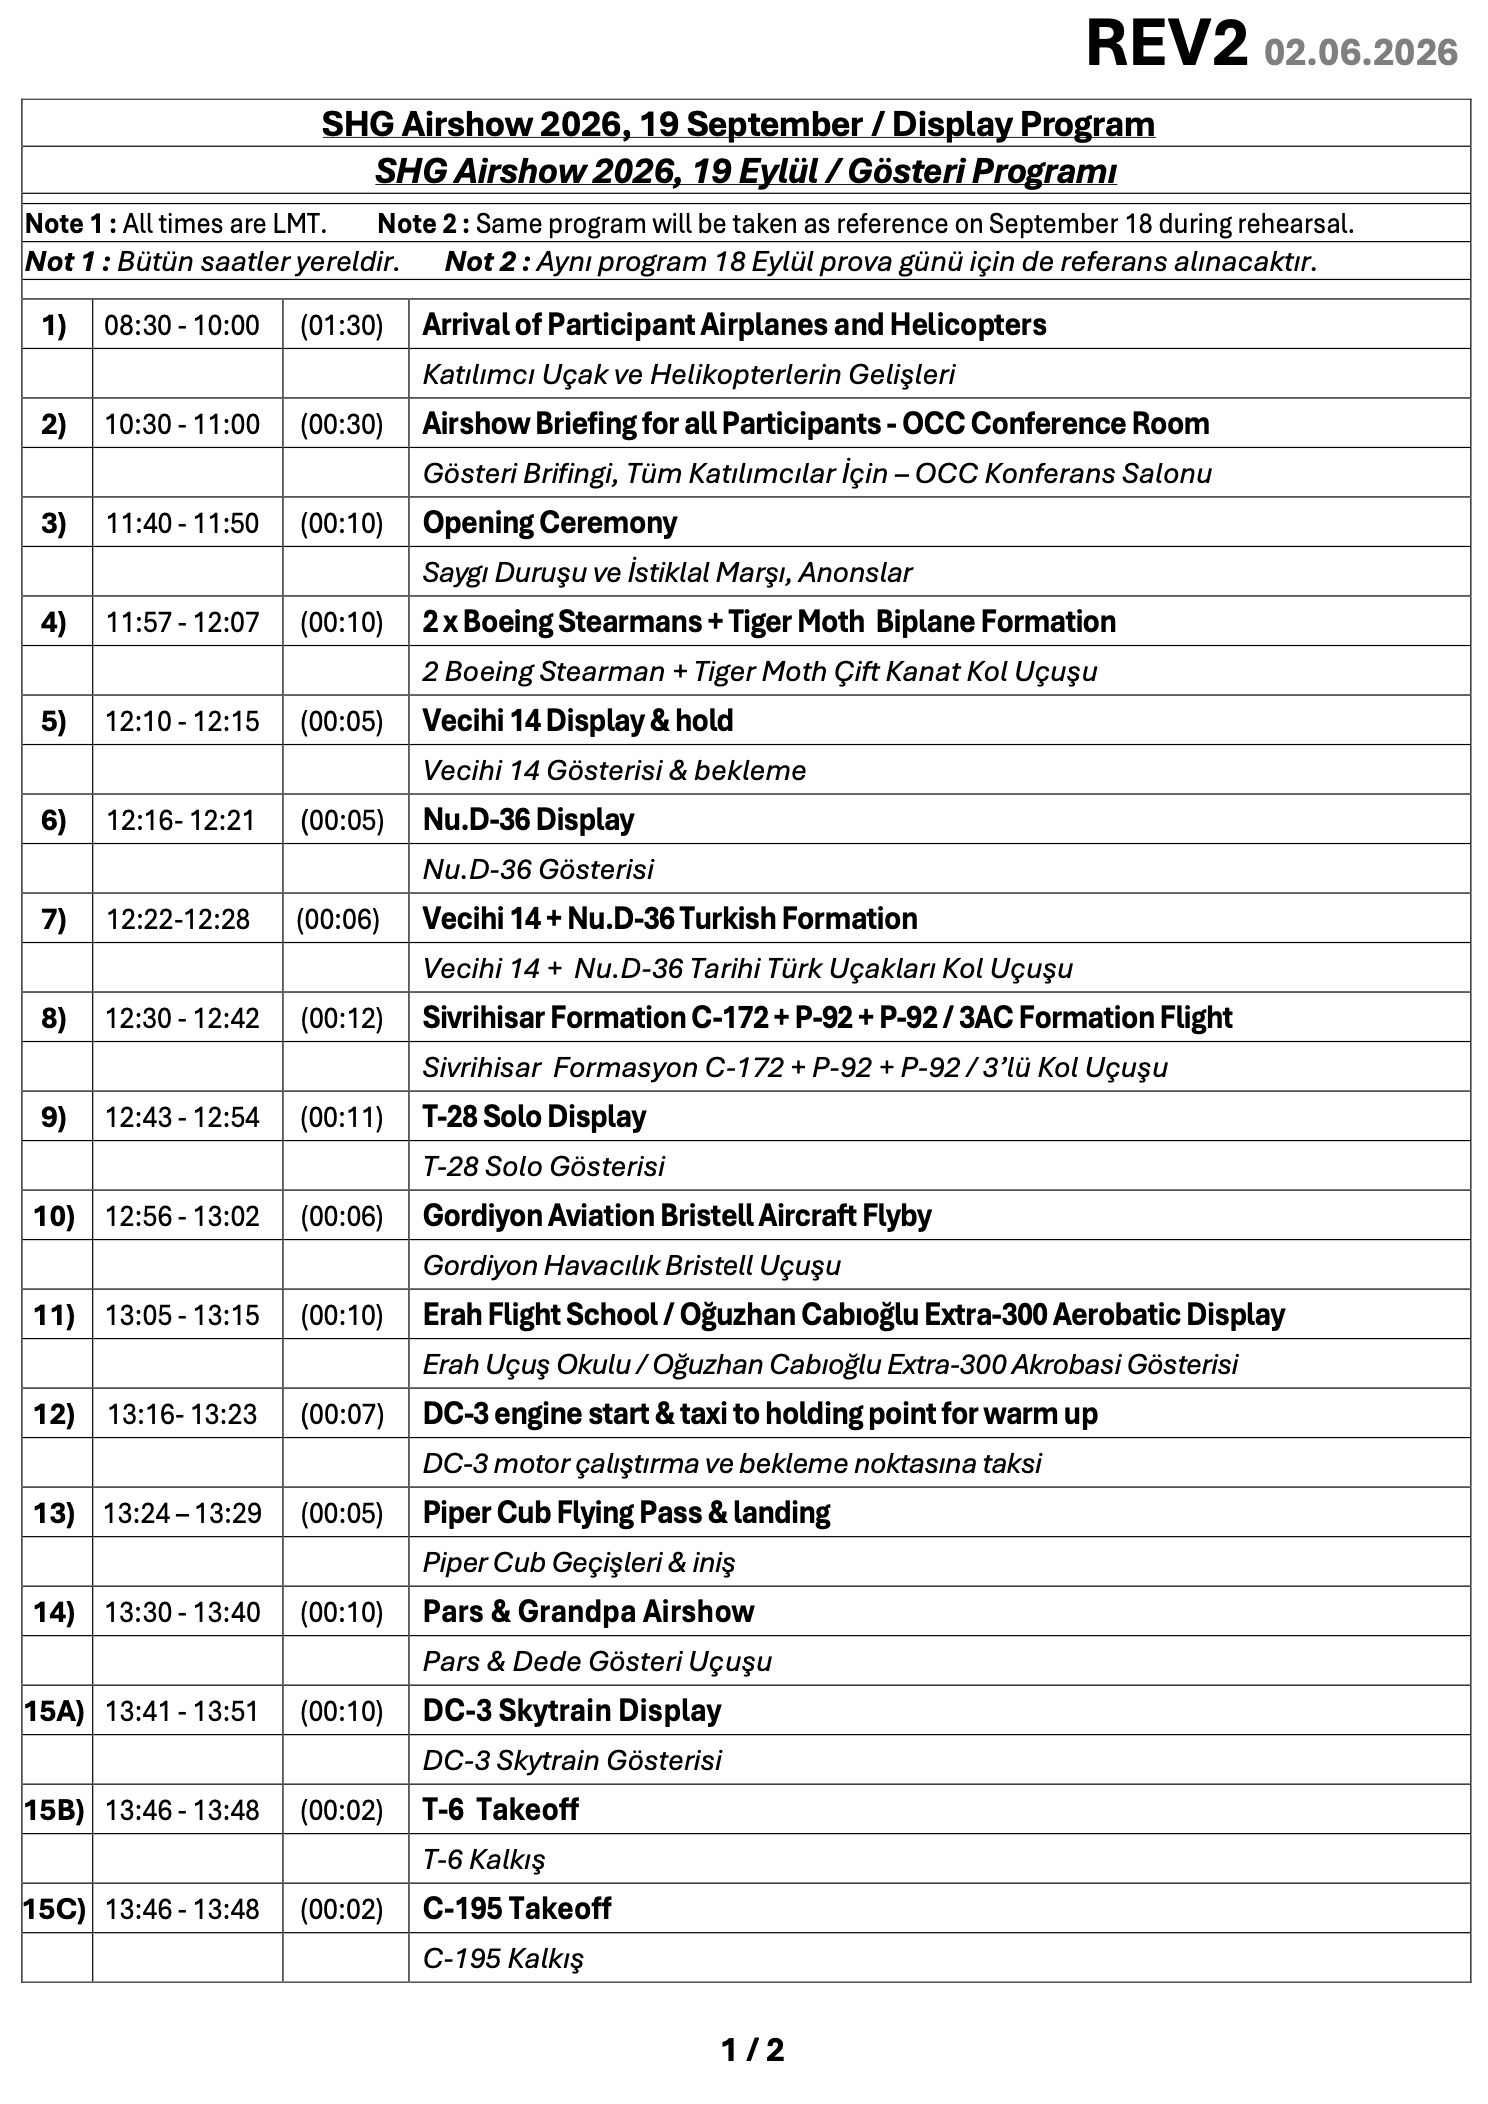
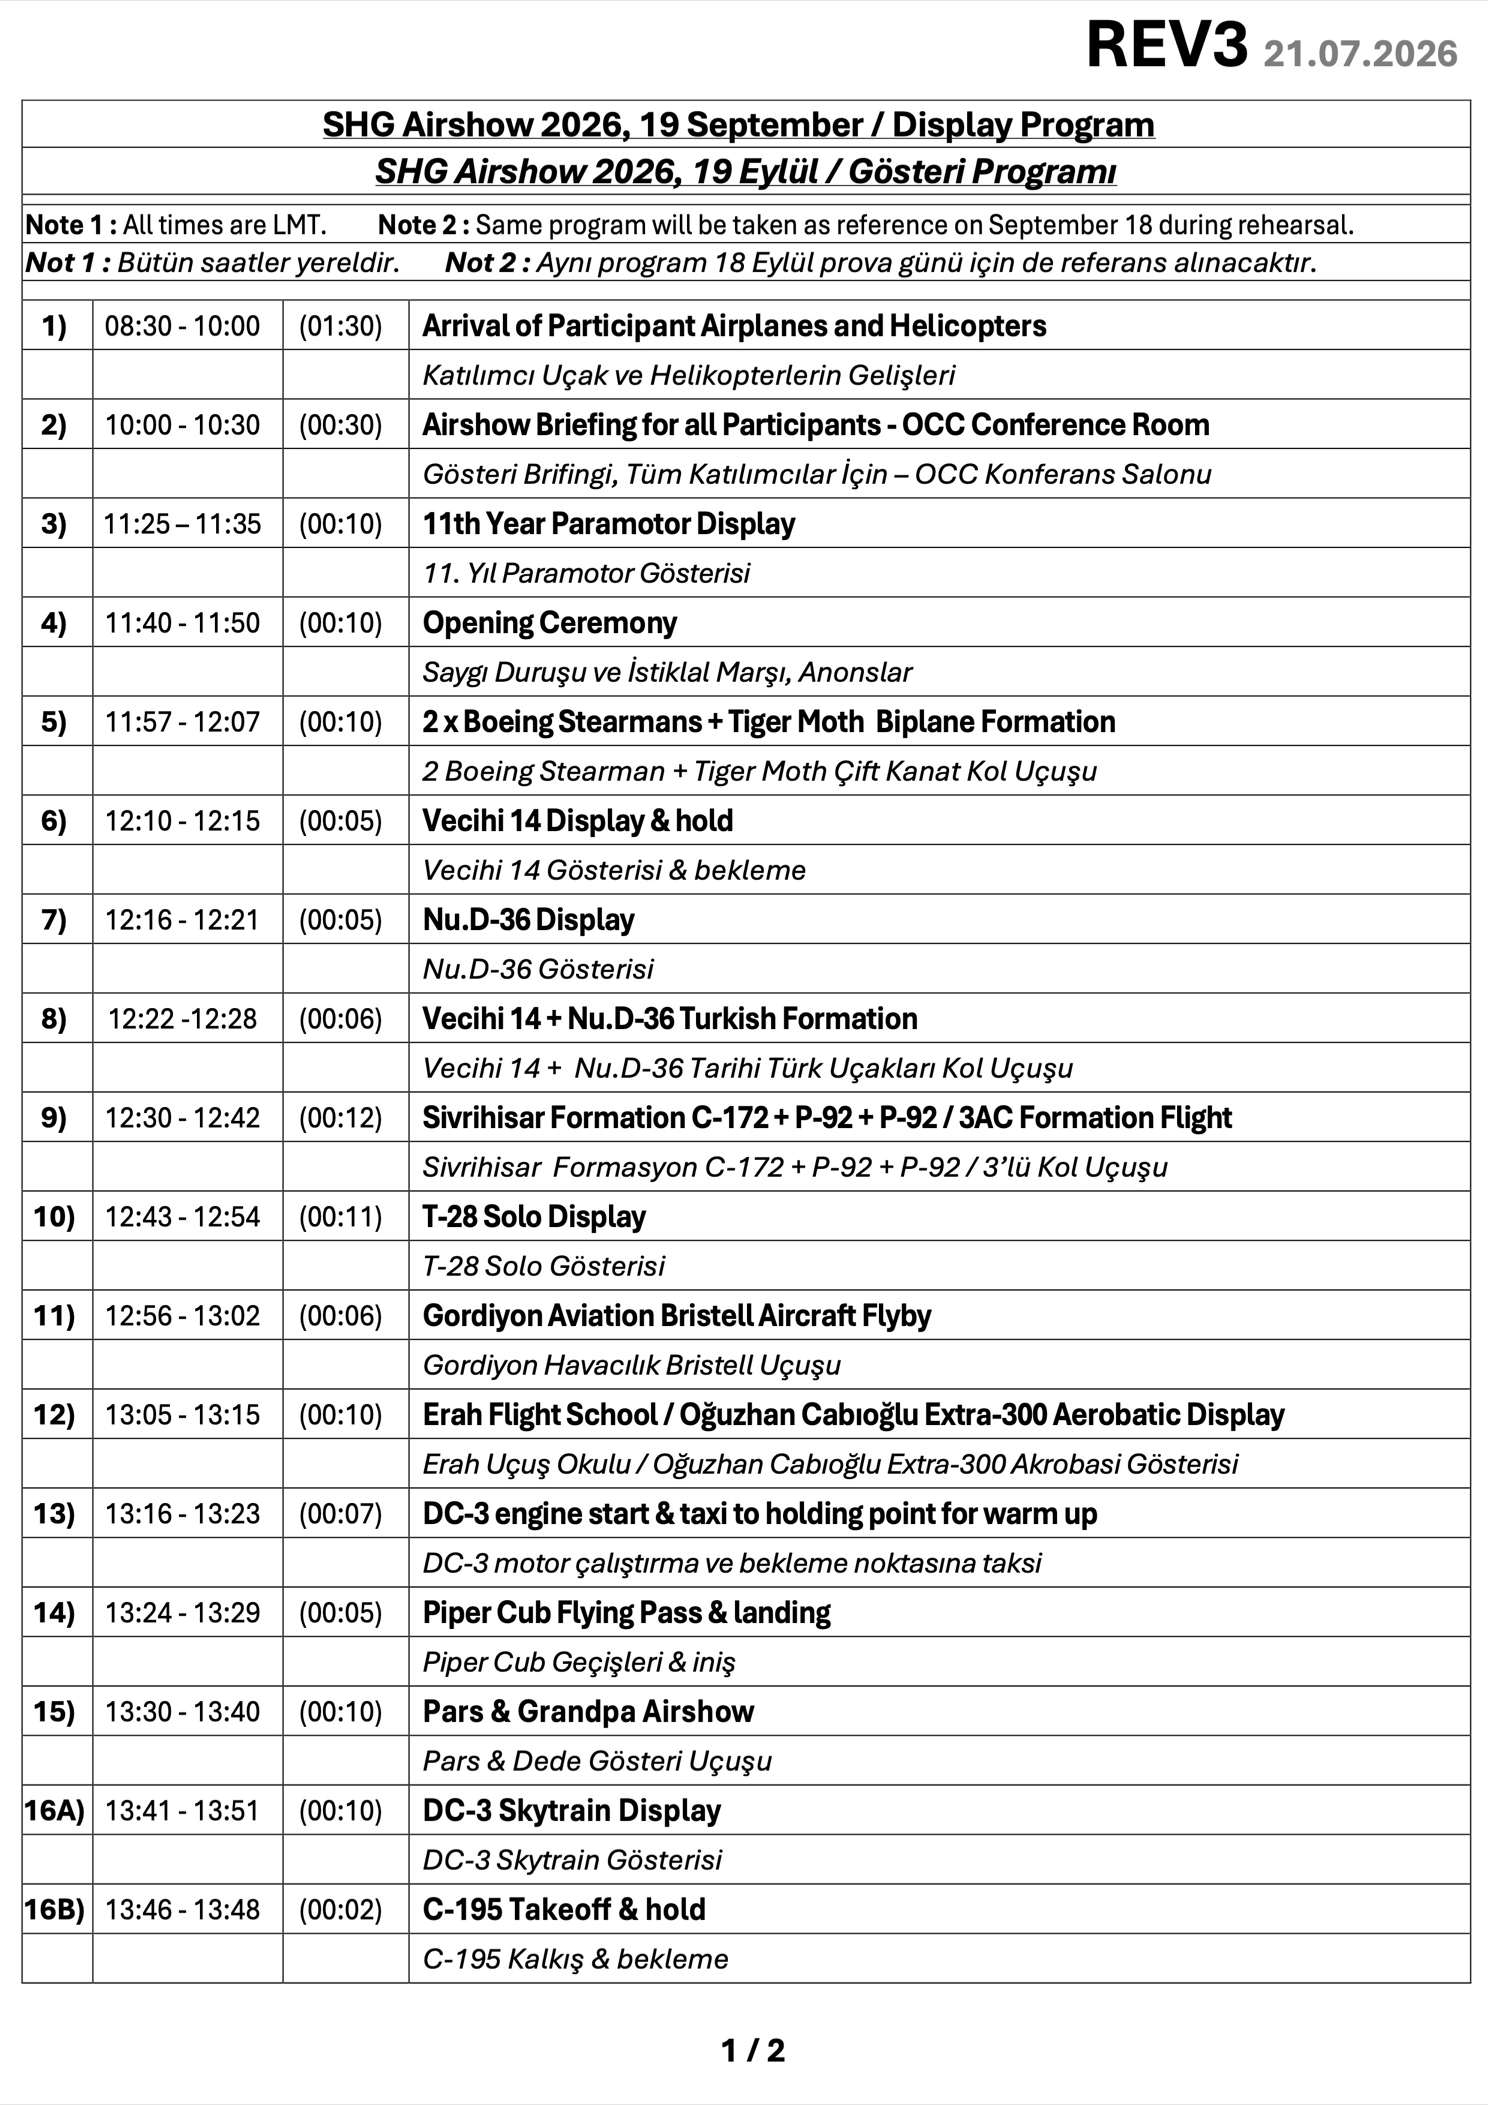
Gösteri programı REV3, spotter notu, yakıt sponsorları ve Focke Wulf URL güncellendi
- 19-20 Eylül gösteri programı görselleri REV3 ile güncellendi
- Spotter yelek/yaka kartı teslim yeri Danışma → Spotter Çadırı (TR+EN, kırmızı vurgu)
- Bireysel yakıt sponsorluğuna 4 eksik isim eklendi
- Focke Wulf 190 katılımcı kartına msomuseum URL eklendi

diff --git a/components/SpotterRegistration.tsx b/components/SpotterRegistration.tsx
@@ -15,8 +15,8 @@ const SpotterRegistration: React.FC<SpotterRegistrationProps> = ({ lang, onNavig
         '<span class="text-red-600">profesyonel fotoğraf makinesi</span>'
       );
       result = result.replace(
-        /Danışma/g,
-        '<span class="text-red-600">Danışma</span>'
+        /Spotter Çadırı/g,
+        '<span class="text-red-600">Spotter Çadırı</span>'
       );
     } else {
       result = result.replace(
@@ -24,8 +24,8 @@ const SpotterRegistration: React.FC<SpotterRegistrationProps> = ({ lang, onNavig
         '<span class="text-red-600">professional camera</span>'
       );
       result = result.replace(
-        /Consultation desk/g,
-        '<span class="text-red-600">Consultation desk</span>'
+        /Spotter Tent/g,
+        '<span class="text-red-600">Spotter Tent</span>'
       );
     }
     return <span dangerouslySetInnerHTML={{ __html: result }} />;
@@ -47,7 +47,7 @@ const SpotterRegistration: React.FC<SpotterRegistrationProps> = ({ lang, onNavig
         "İrtibat Bilgileri (telefon ve e\u2011posta)",
         "İmzalı Spotter Taahhütnamesi (Aşağıdaki butona basarak dosyayı indirebilirsiniz.)"
       ],
-      note: `"Spotter" arkadaşlarımız organizasyona biletli olarak giriş yapabileceklerdir. Spotterların profesyonel fotoğraf makinesi kullanmaları gerekmektedir. Spotter yelekleri ve yaka kartları, organizasyon günü show alanında bulunan Danışma’dan teslim alınacaktır.`,
+      note: `"Spotter" arkadaşlarımız organizasyona biletli olarak giriş yapabileceklerdir. Spotterların profesyonel fotoğraf makinesi kullanmaları gerekmektedir. Spotter yelekleri ve yaka kartları, organizasyon günü show alanında bulunan Spotter Çadırı’ndan teslim alınacaktır.`,
       applyTitle: "Spotter Başvurusu İçin",
       commitmentBtn: "SPOTTER TAAHHÜTNAMESİ",
       commitmentPdf: "/SHG 2026-Spotter Taahhutnamesi.pdf",
@@ -70,7 +70,7 @@ const SpotterRegistration: React.FC<SpotterRegistrationProps> = ({ lang, onNavig
         "Contact Information (phone and e-mail)",
         "Signed Spotter Commitment Form (You can download the file by clicking the button below.)"
       ],
-      note: `"Spotter" friends will be able to enter the organization with a ticket. Spotters are required to use a professional camera. Spotter vests and badges will be available for pickup on the day of the event at the Consultation desk located in the show area.`,
+      note: `"Spotter" friends will be able to enter the organization with a ticket. Spotters are required to use a professional camera. Spotter vests and badges will be available for pickup on the day of the event at the Spotter Tent located in the show area.`,
       applyTitle: "To Apply as a Spotter",
       commitmentBtn: "SPOTTER COMMITMENT FORM",
       commitmentPdf: "/Spotter Commitment Form.pdf",

diff --git a/components/Participants.tsx b/components/Participants.tsx
@@ -171,6 +171,7 @@ const Participants: React.FC<ParticipantsProps> = ({ lang, targetId, onNavigate 
       name: "FOCKE WULF 190",
       desc: lang === "TR" ? "II. Dünya Savaşı'nın efsanevi avcı uçaklarından Focke Wulf 190, Türk Hava Kuvvetleri envanterinden ayrılışından tam 79 yıl sonra, Şanlı Hava Kuvvetlerimizin Kare Forsuyla donatılmış olarak SHG Airshow 2026'da Türkiye semalarındaki yerini alıyor." : "One of the legendary fighter aircraft of World War II, the Focke Wulf 190 takes its place in Türkiye's skies at SHG Airshow 2026 — a full 79 years after leaving the Turkish Air Force inventory — adorned with the \"Kare Fors\" emblem of our glorious Air Force.",
       image: "/images/fw-190.png",
+      url: "https://msomuseum.com/focke-wulf-190/",
     },
     {
       id: "klaus-plasa",

diff --git a/components/Partners.tsx b/components/Partners.tsx
@@ -94,7 +94,9 @@ const Partners: React.FC<PartnersProps> = ({ lang, onNavigate }) => {
   "Selim Doğan ÖZEL",
   // 2026-05 Eklenenler
   "Asiye SÜZER", "Cengiz YAVUZ", "Mustafa KARACAOVA", "Özcan ÇAKIR", "Serkan ÖZKAN",
-  "Adile Ayşe YURDAŞ"
+  "Adile Ayşe YURDAŞ",
+  // 2026-07 Eklenenler
+  "Şerife ÖZCAN", "Selim KUMRULUOĞLU", "Celalettin Emre YİĞİT", "Ferah TOLUNAY"
   ].sort((a, b) => {
     const partsA = a.split(' ');
     const partsB = b.split(' ');
